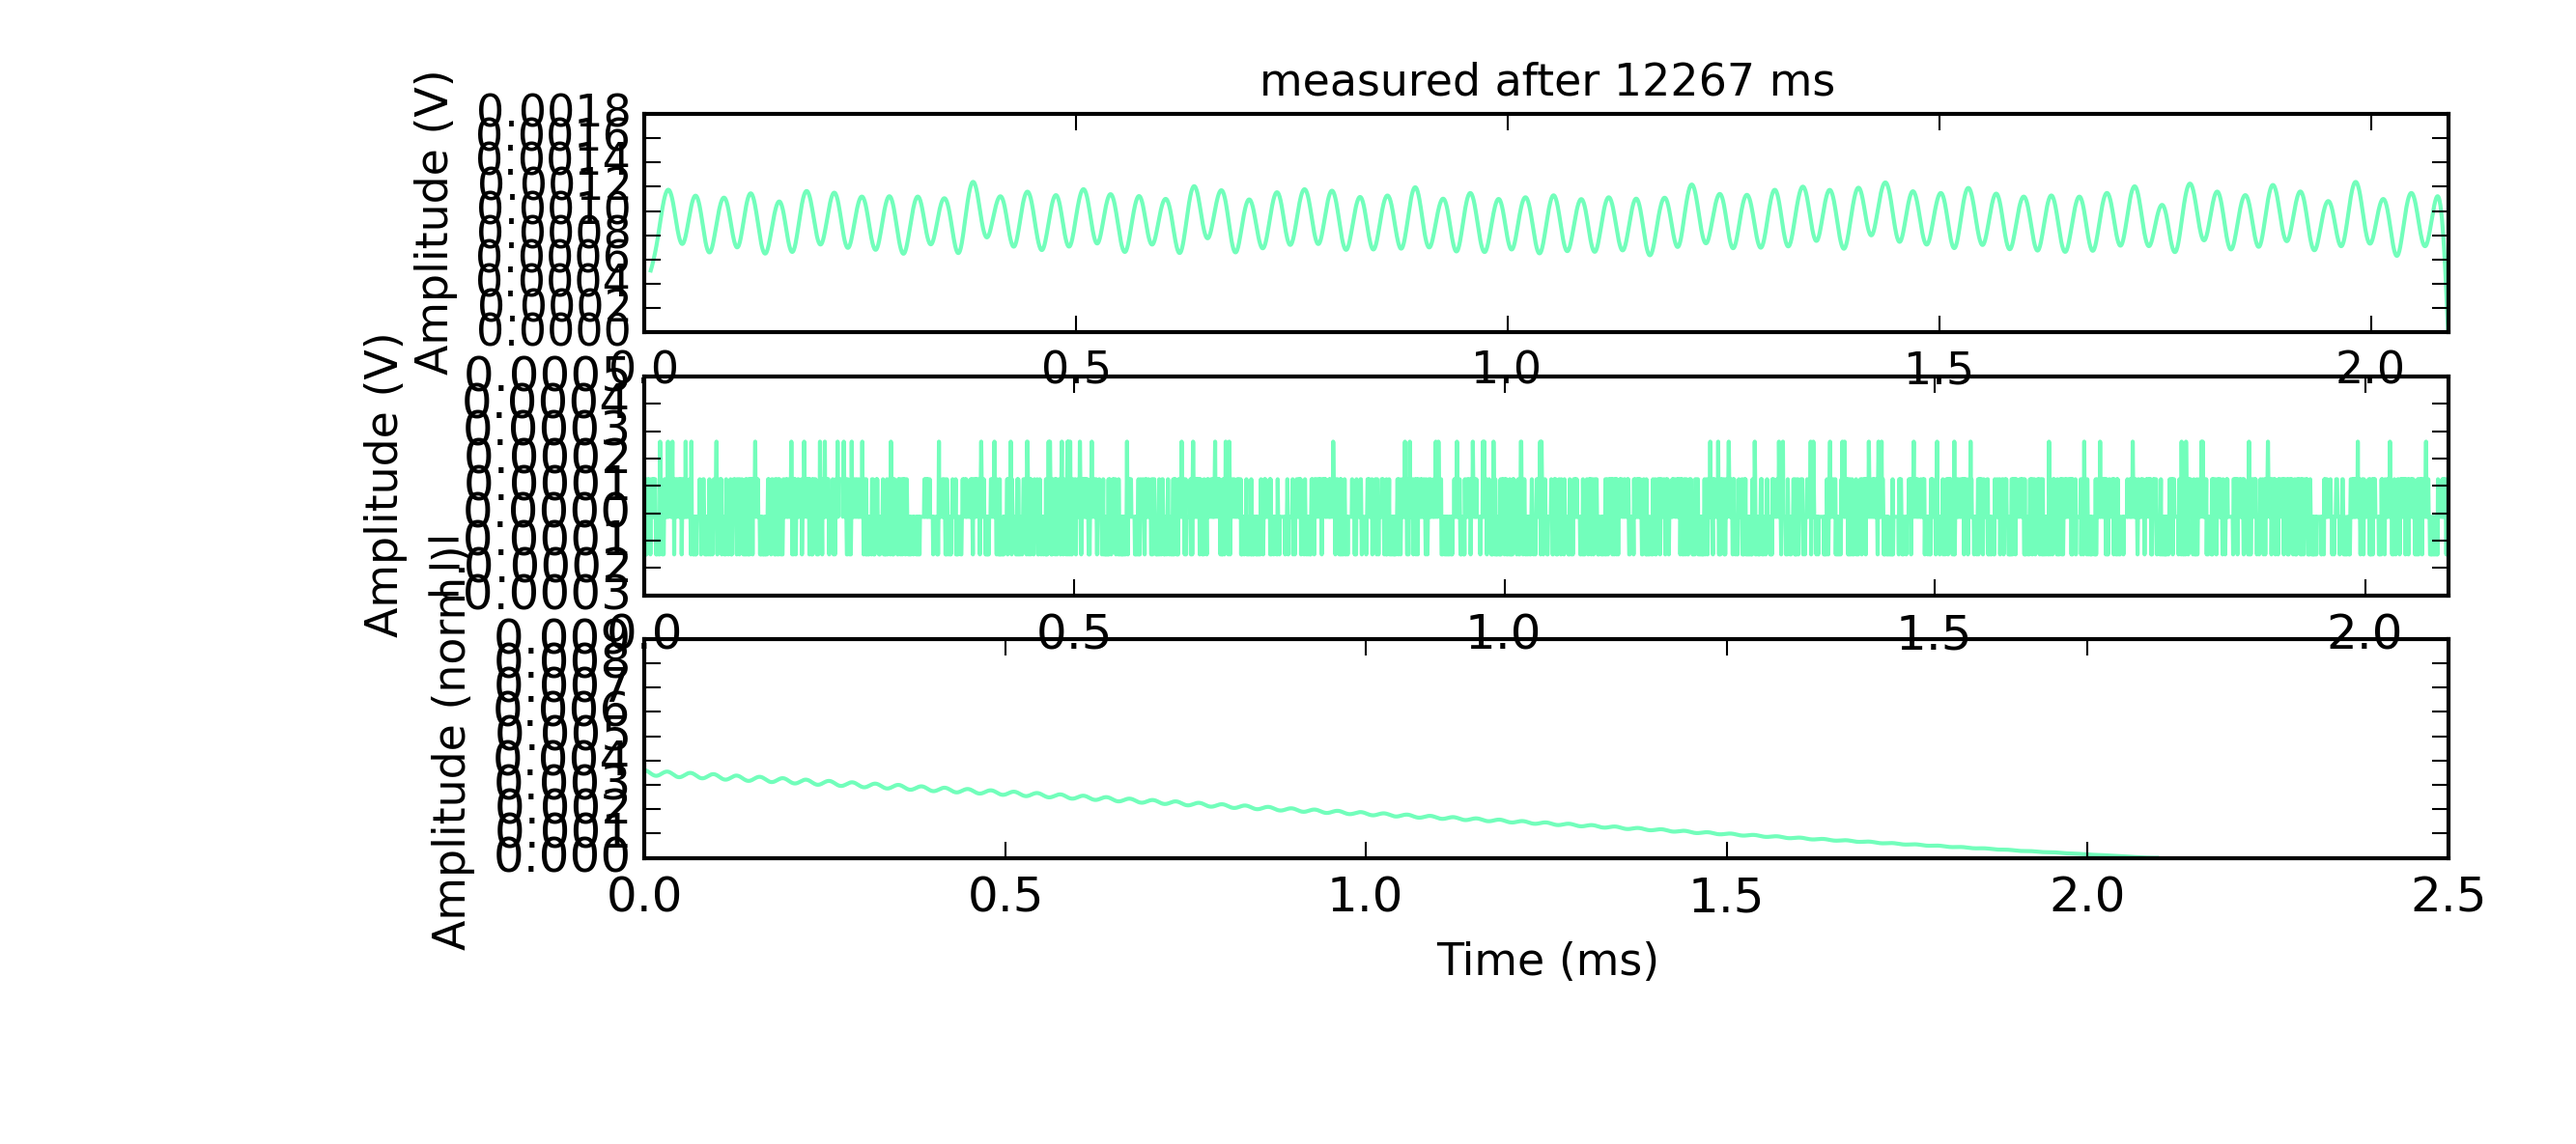
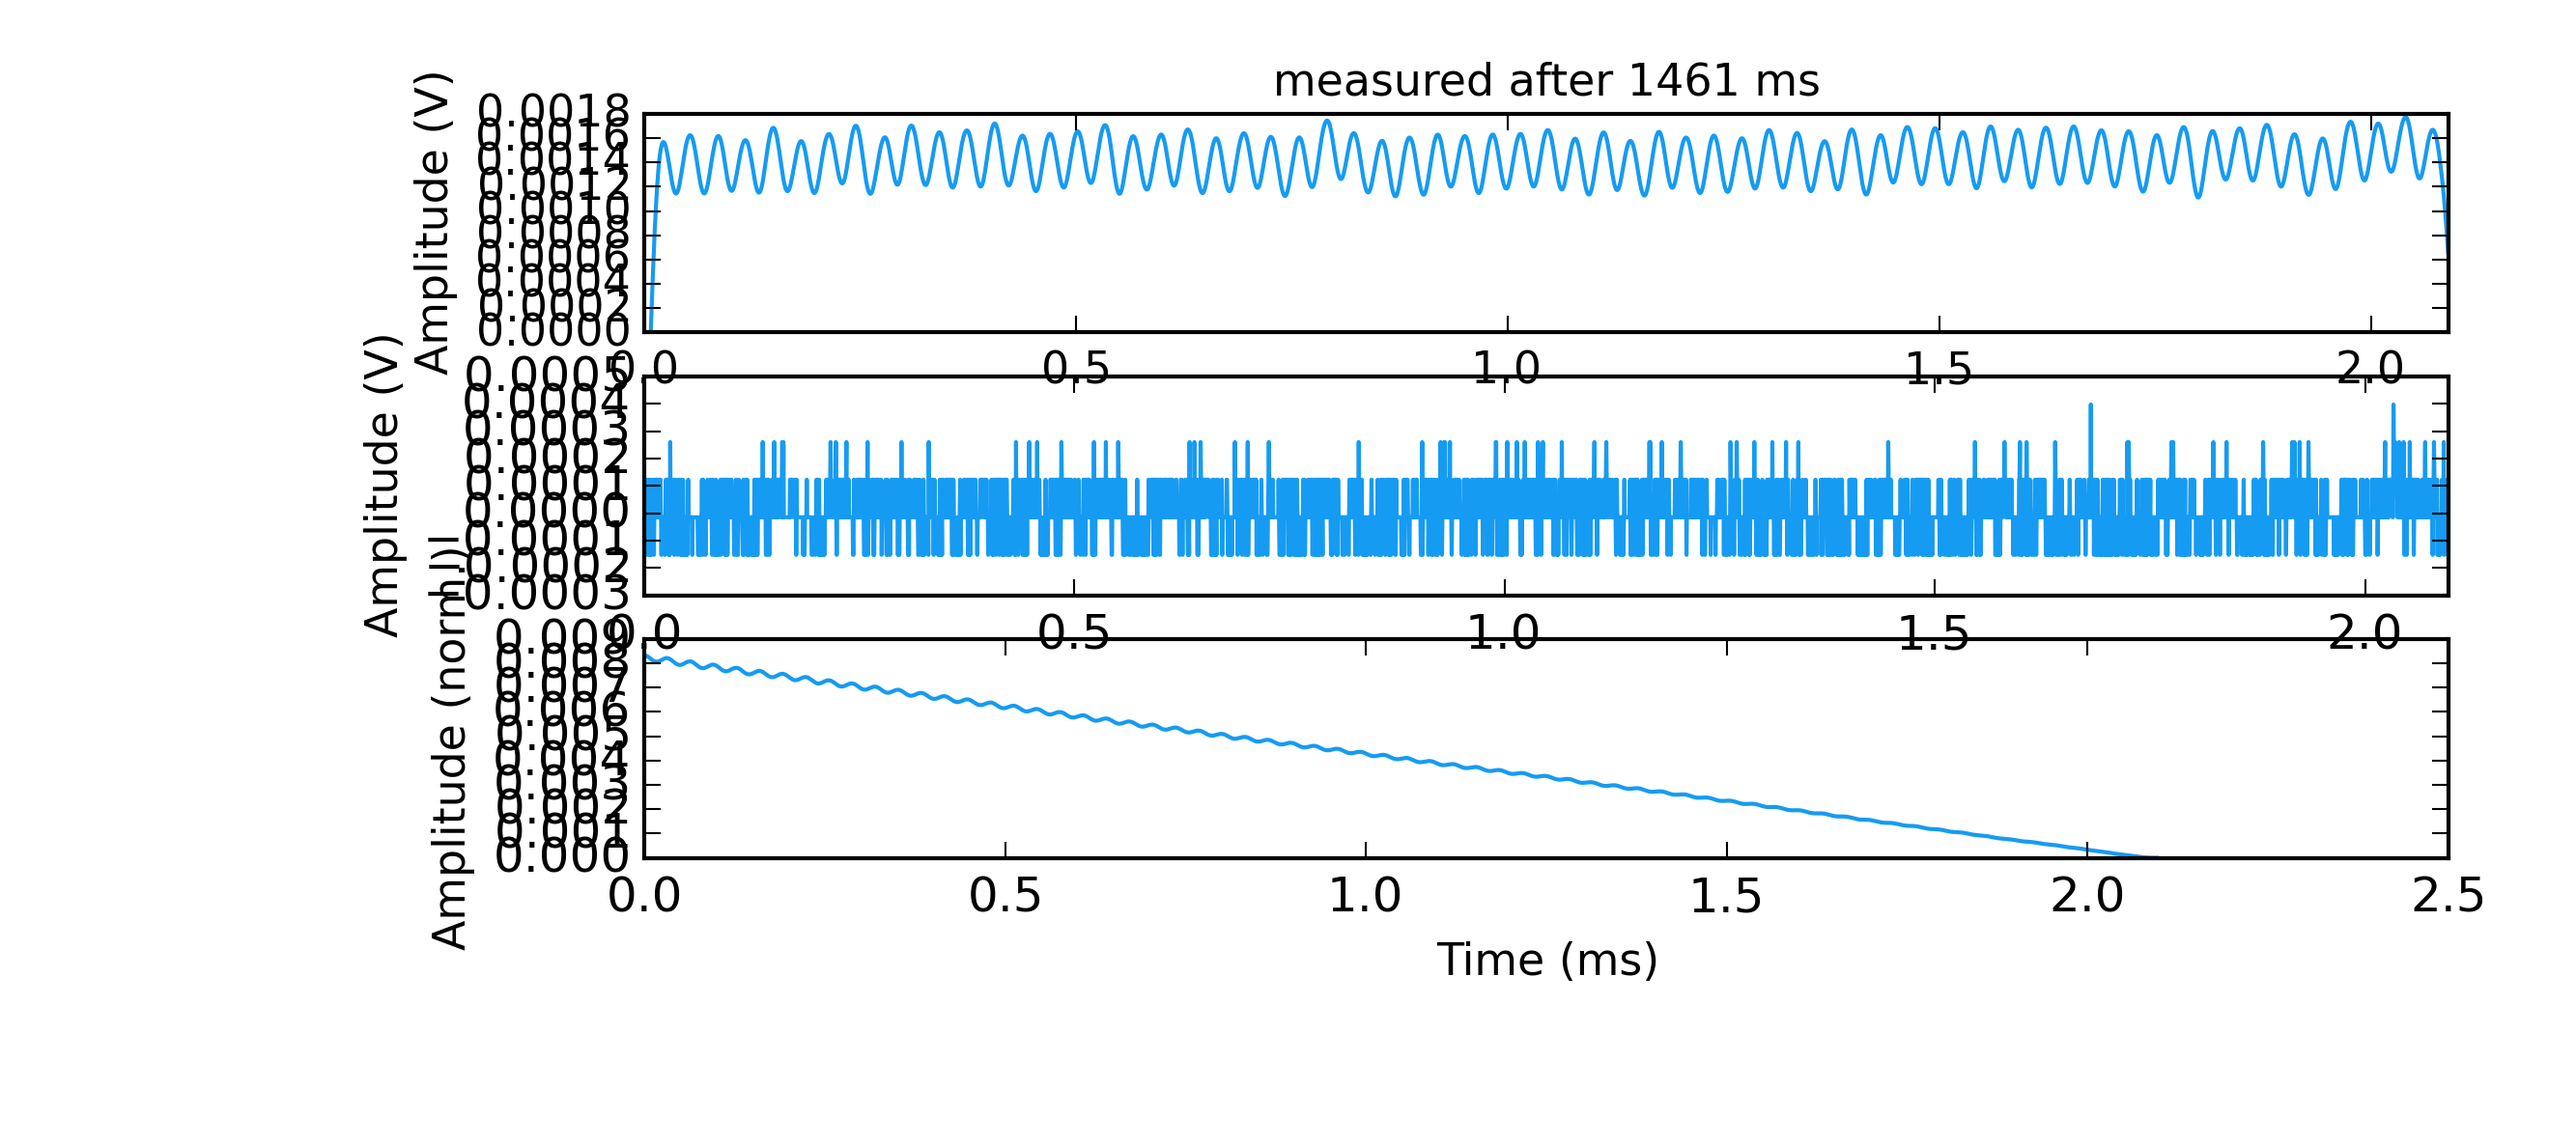
now the running time is fast again
just removed the sleeping :-(

diff --git a/myredpid_remote_main.py b/myredpid_remote_main.py
@@ -40,7 +40,9 @@ if __name__ == '__main__':
 
 	###PROGRAMM SETTINGS
 	do_plot = 1 #only plots of =1
-    
+	do_corr = 1 #only correlates of = 1, plot must be on
+ 	do_output = 1 #only gives an outpu for = 1
+   
 	###FOLDER SETTINGS
 	pathname = os.getcwd()
 	print(os.walk(pathname))
@@ -126,7 +128,7 @@ if __name__ == '__main__':
 		start_time_ms = tm.time()
 		rp_s.tx_txt('ACQ:TRIG:DLY ' + str(int(buff_len-1000.)))
 		rp_s.tx_txt('ACQ:START')
-		tm.sleep(1.)	#pause to refresh buffer
+#		tm.sleep(1.)	#pause to refresh buffer
 		rp_s.tx_txt('ACQ:TRIG EXT_PE')
 	
 		
@@ -178,10 +180,10 @@ if __name__ == '__main__':
 		y_trace2_V = smooth(y_trace2_V,3)
 		y_trace2_V = y_trace2_V- np.average(y_trace2_V)
 	
-		y_correllation = autocorr(y_trace1_V)
-		time_correllation_ms = range(len(y_correllation))
-		time_correllation_ms = np.asarray(time_correllation_ms) * delta_time_ms_ms
-#		print 'lengths: ', len(y_trace1_V), len(y_correllation)
+		if do_corr == 1:
+			y_correllation = autocorr(y_trace1_V)
+			time_correllation_ms = range(len(y_correllation))
+			time_correllation_ms = np.asarray(time_correllation_ms) * delta_time_ms_ms
 	
 		###GET TIMING
 		stop_time_ms = tm.time()
@@ -227,8 +229,8 @@ if __name__ == '__main__':
 #		read_user_input(newstdin)
 	
 		if pid_status.value == 0:
-			ind_set = np.argmax(y_trace1_V)
-		else:
+			ind_set = np.argmax(y_trace1_V) # takes the setpoint 
+		else: # starts locking
 			pid_error = get_error_max(y_trace1_V,ind_set,)
 			pid_error = float(1.*pid_error/buff_len)
 			
@@ -239,20 +241,21 @@ if __name__ == '__main__':
 			
 		###DEFINE OUTPUT
 	   	#rp_s.tx_txt('CR/LF'); #no idea what this one does
-		pid_output_percent = pid_output + pid_offset
+		if do_output == 1:
+			pid_output_percent = pid_output + pid_offset
+			
+			if pid_output_percent < 0:
+				pid_output_percent = 0
+			if pid_output_percent > 100.:
+				pid_output_percent = 100.
 		
-		if pid_output_percent < 0:
-			pid_output_percent = 0
-		if pid_output_percent > 100.:
-			pid_output_percent = 100.
+			print('pid_output_percent', pid_output_percent)
 		
-		print('pid_output_percent', pid_output_percent)
-		
-		pid_output_V = str((1.8/100)*pid_output_percent)     #from 0 - 1.8 volts
-		pin_out_num = '2'  #Analog outputs 0,1,2,3
+			pid_output_V = str((1.8/100)*pid_output_percent)     #from 0 - 1.8 volts
+			pin_out_num = '2'  #Analog outputs 0,1,2,3
 	
-		scpi_command = 'ANALOG:PIN AOUT' + pin_out_num + ',' + pid_output_V
-		rp_s.tx_txt(scpi_command)
+			scpi_command = 'ANALOG:PIN AOUT' + pin_out_num + ',' + pid_output_V
+			rp_s.tx_txt(scpi_command)
 	
 	av_time = (1000.*(stop_time_ms-ini_time_ms ) / num_run)
 	print('averaged run time is ', av_time, ' ms')
